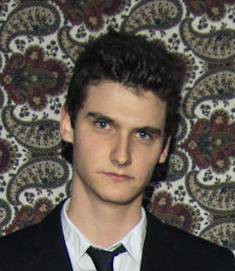
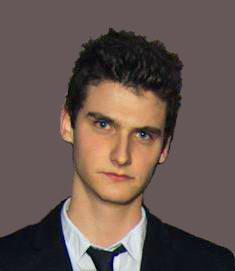
Updated about page

diff --git a/html/about.html b/html/about.html
@@ -140,8 +140,14 @@
 		</div>	
 	</div>
 		<div class="about">
-			<div class="about-circular-ben"><!-- Image circulaire de Ben --></div>
-			<div class="about-circular-suf"><!-- Image circulaire de Suf --></div>
+			<figure>
+				<div class="about-circular-ben"><!-- Image circulaire de Ben --></div>
+				<!--figcaption> Ben </figcaption-->
+			</figure>
+			<figure>
+				<div class="about-circular-suf"><!-- Image circulaire de Suf --></div>
+				<!--figcaption> Suf </figcaption-->
+			</figure>
 			<div class="about-title">
 				<h1> A PROPOS DE NOUS</h1>
 			</div>

diff --git a/CSS/about.css b/CSS/about.css
@@ -26,7 +26,7 @@ height:auto;
 	border-radius: 150px;
 	-webkit-border-radius: 150px;
 	-moz-border-radius: 150px;
-	background: url(../ressources/about_Sufiane4.jpg) no-repeat;
+	background: url(../ressources/about_Sufiane.jpg) no-repeat;
 	box-shadow: 0 0 8px rgba(0, 0, 0, .8);
 	-webkit-box-shadow: 0 0 8px rgba(0, 0, 0, .8);
 	-moz-box-shadow: 0 0 8px rgba(0, 0, 0, .8);
